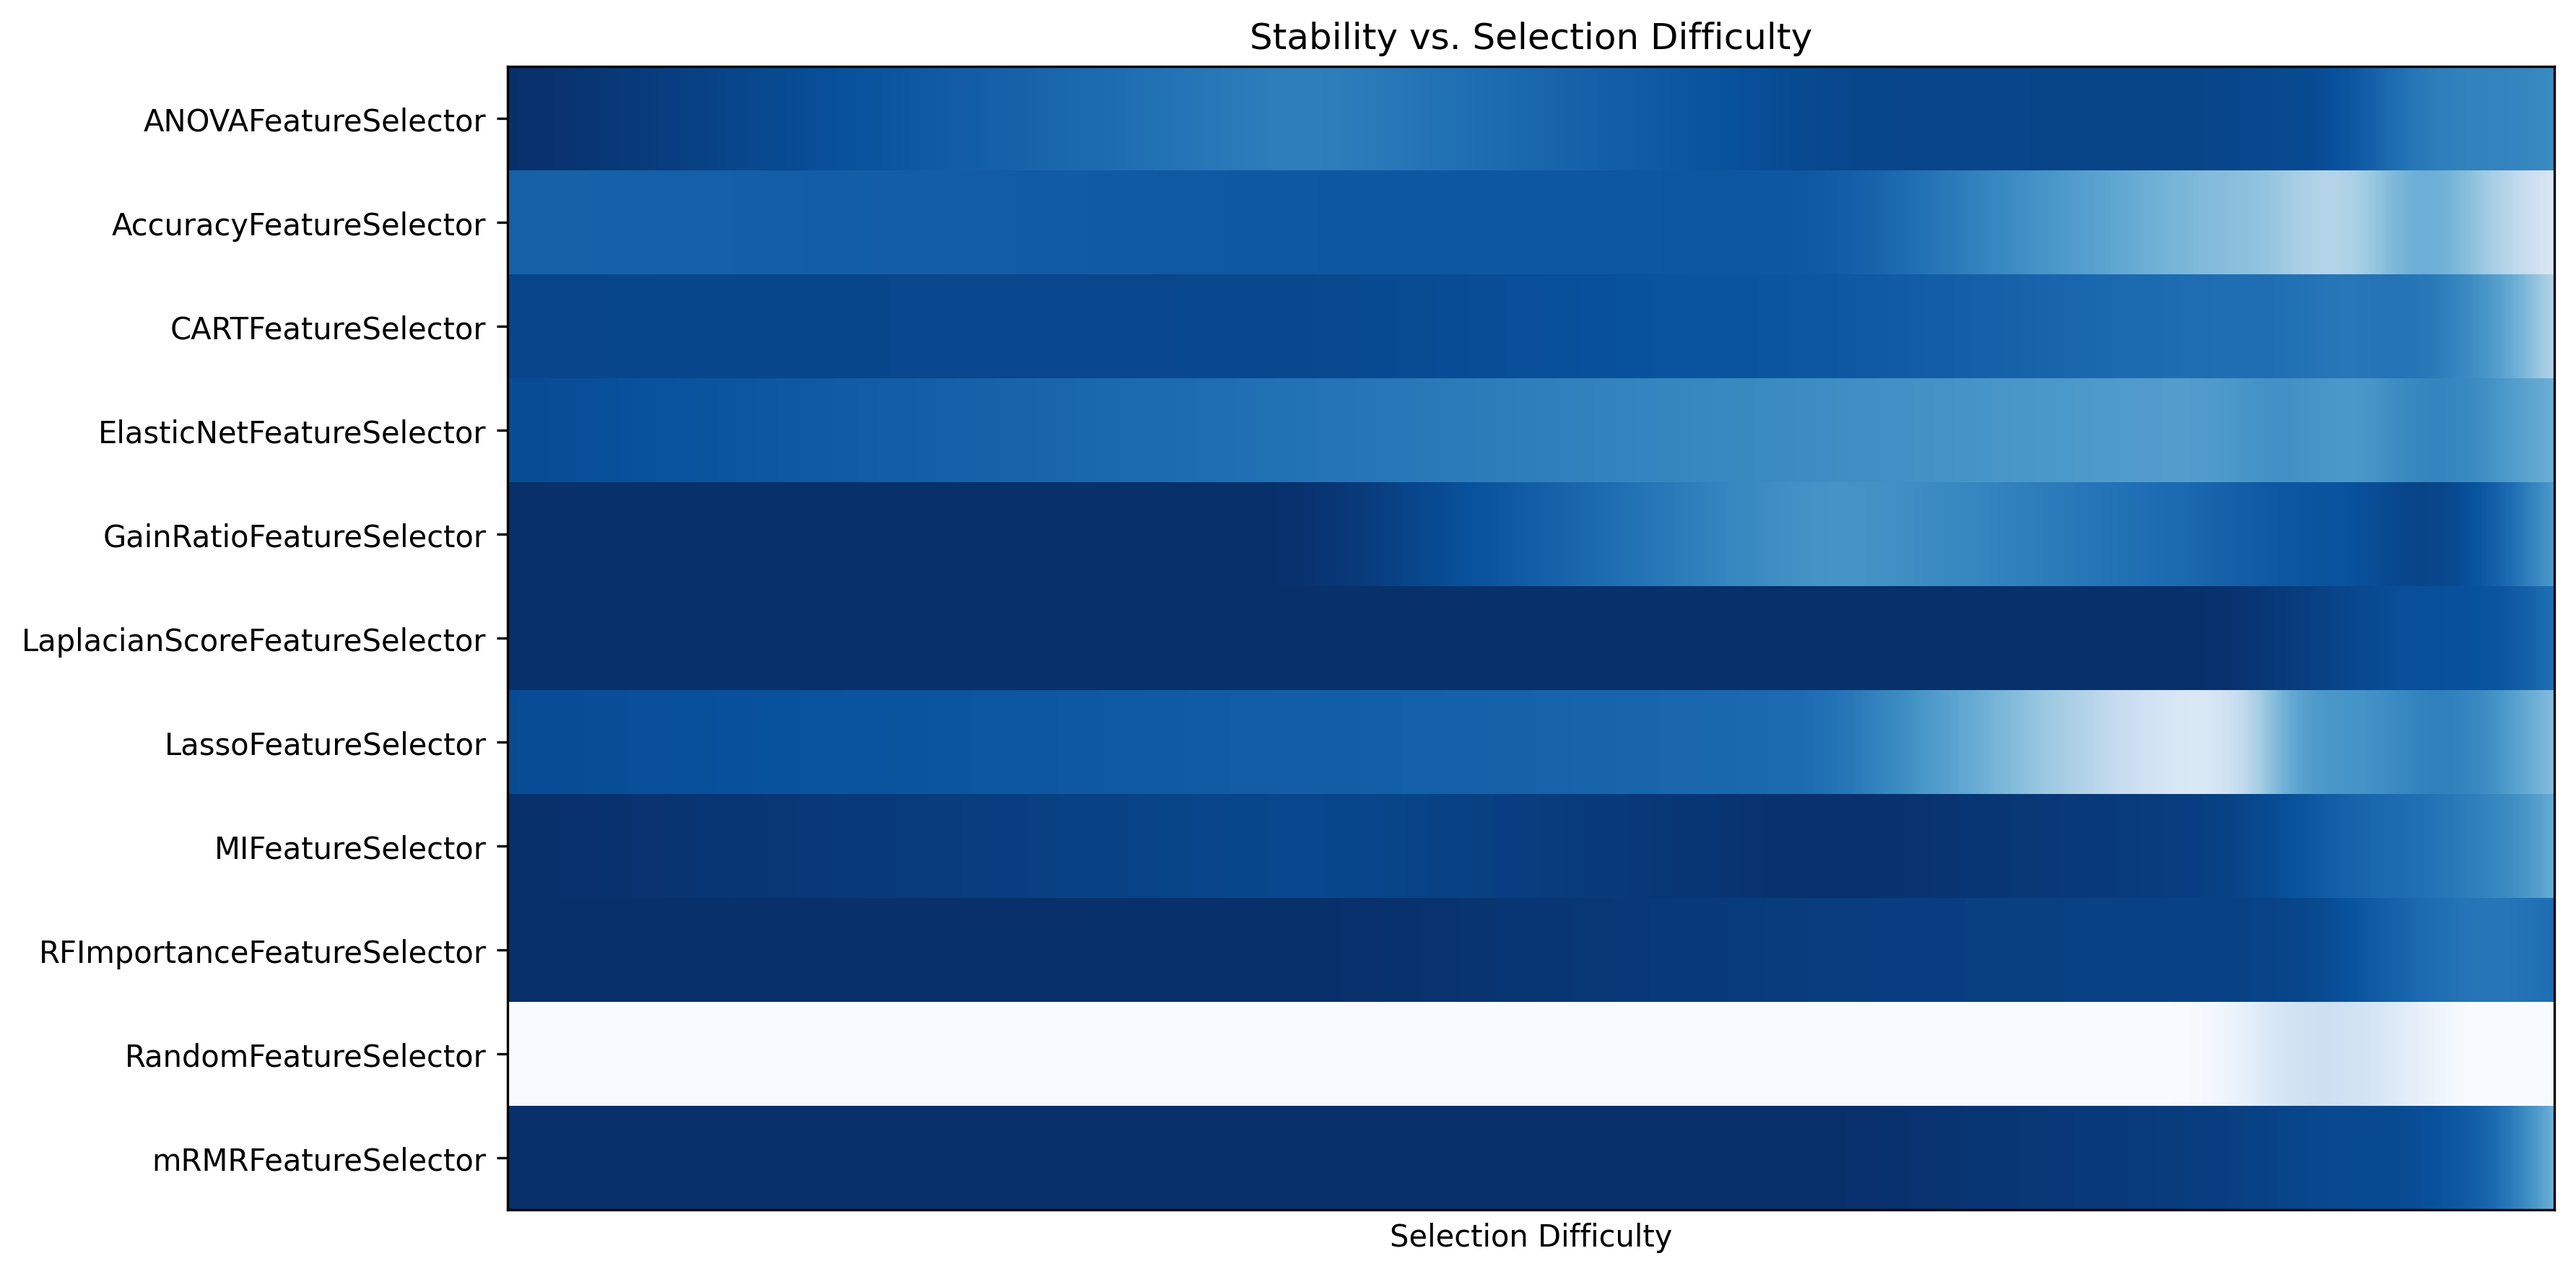
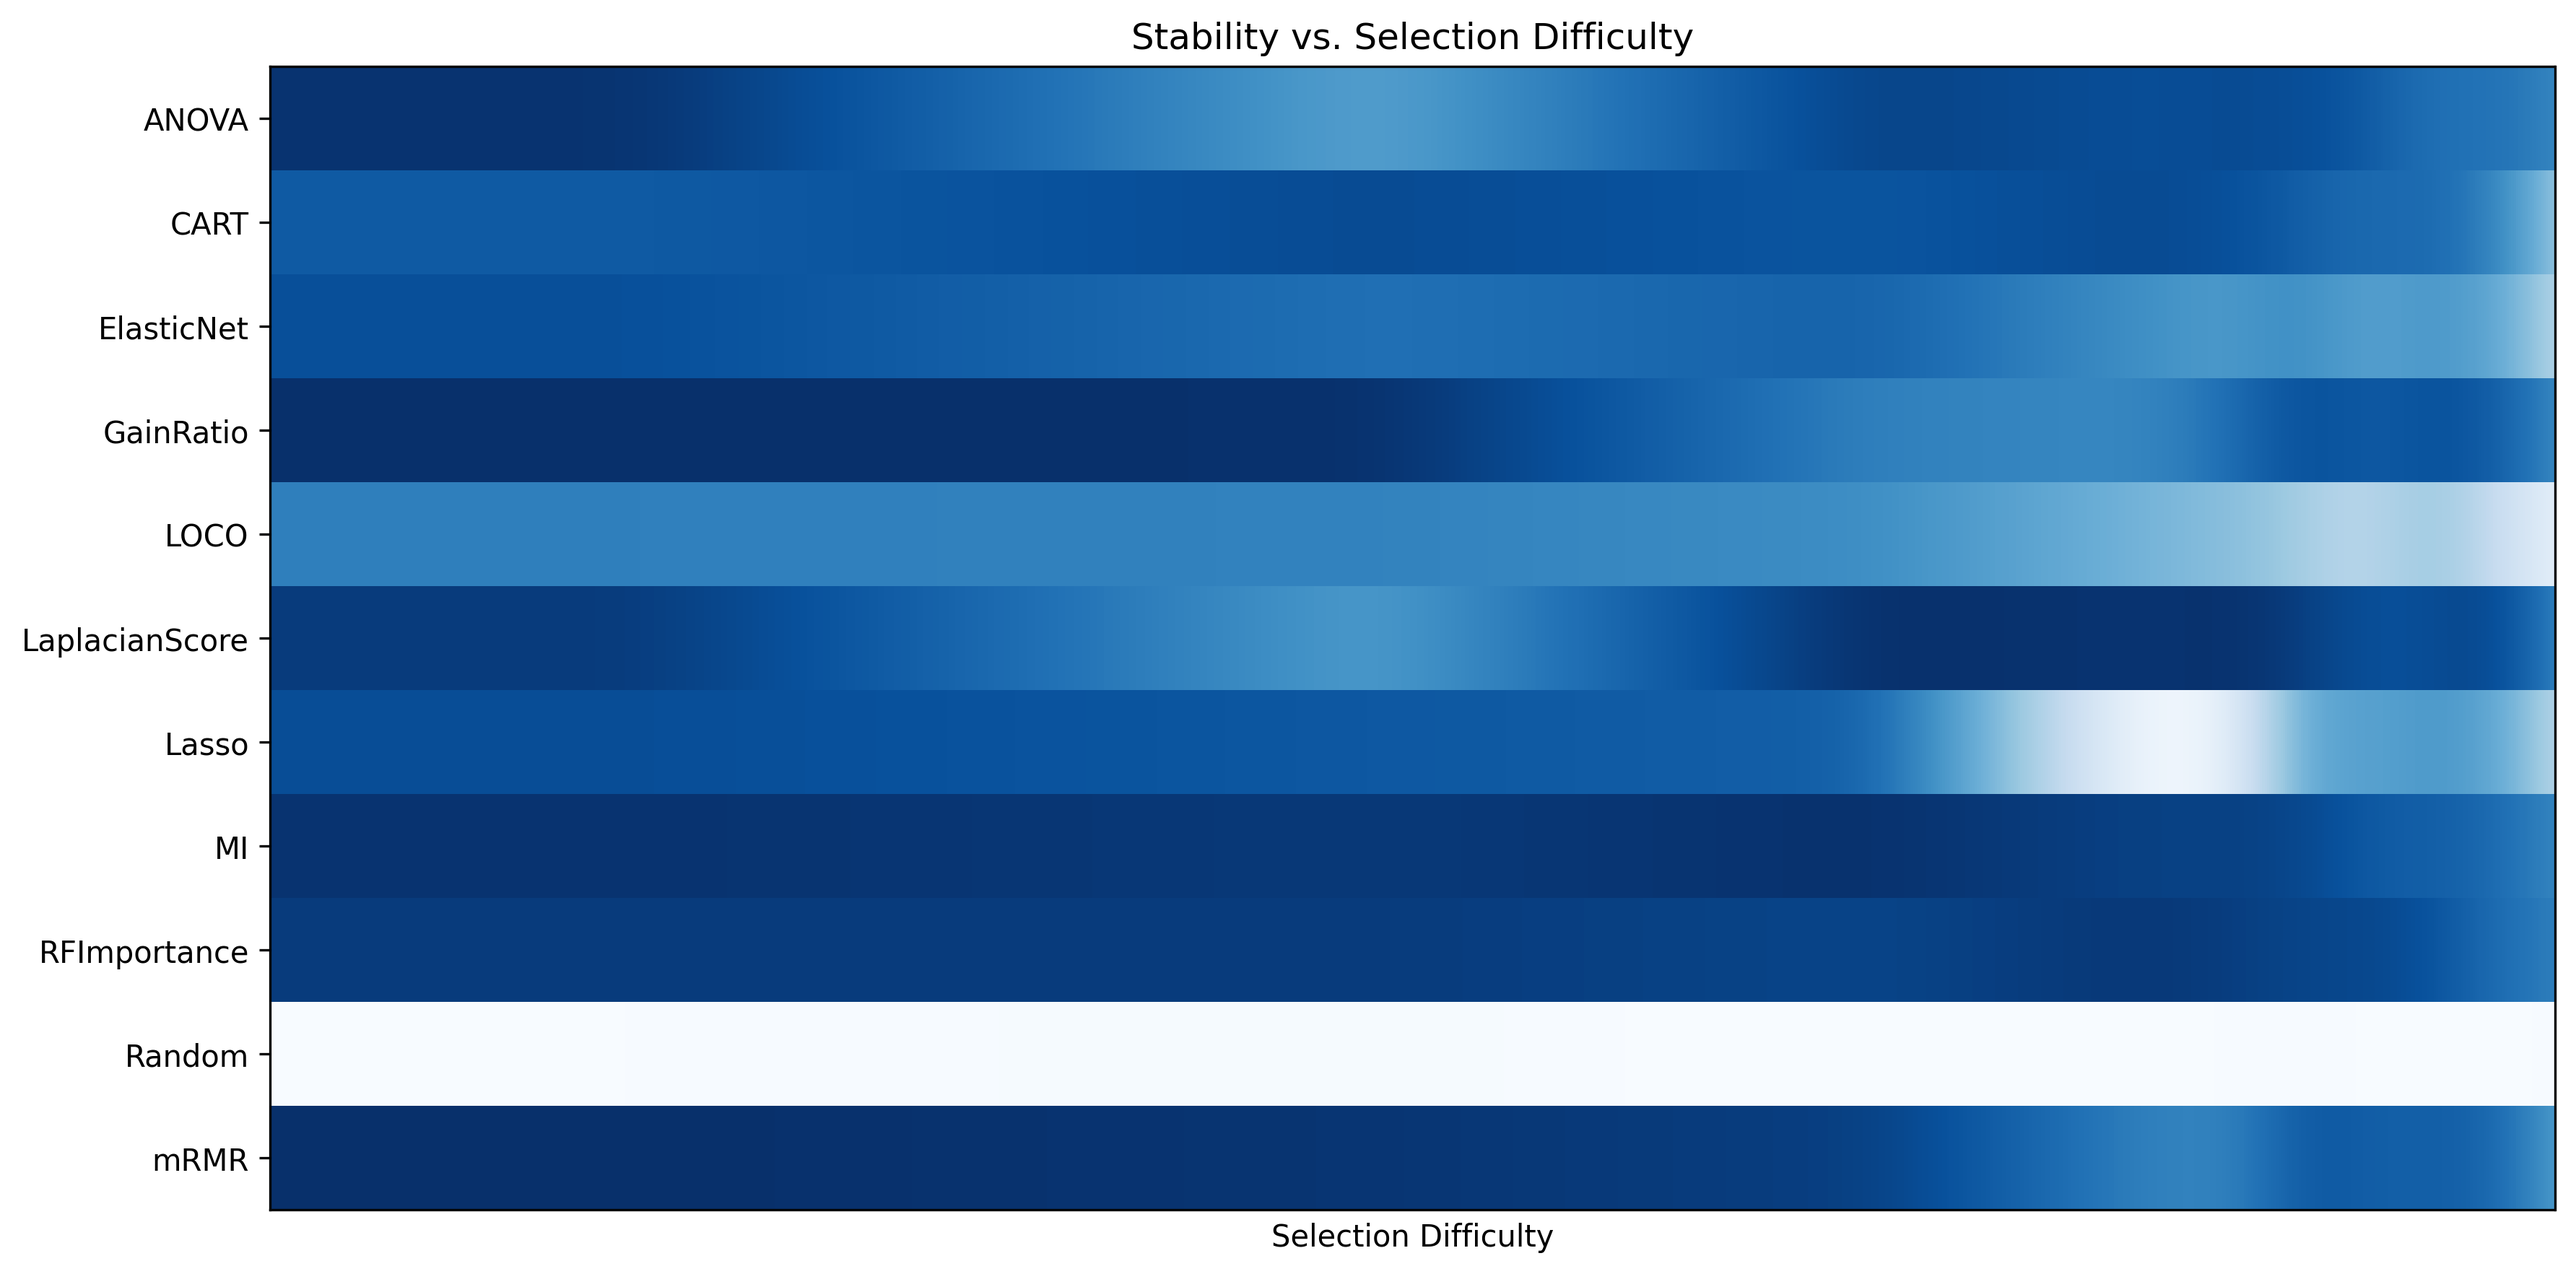
fix: stability (replace df_plot.groupby(["dataset", "selector", "epv"], as_index=False)["stability"].mean() (line 121) with df_plot.groupby(["selector", "epv"], as_index=False)["stability"].mean()

diff --git a/plotting_code/stability/stability_per_EPV_v1.py b/plotting_code/stability/stability_per_EPV_v1.py
@@ -25,14 +25,64 @@ OUTPUT_DIR = SCRIPT_DIR / "generated_plots/stability"
 OUTPUT_DIR.mkdir(parents=True, exist_ok=True)
 OUTPUT_PATH = OUTPUT_DIR / PLOT_NAME
 
+def overwrite_min_samples_from_validity(df_stability, df_validity):
+    """
+    Overwrites 'min_samples_per_class' in df_stability using the true values
+    from df_validity, matched solely on 'data_foundry_task_id'.
+    """
+    df_stab = df_stability.copy()
+    df_val = df_validity.copy()
+
+    # 1. Filter validity to keep only one row per data_foundry_task_id
+    val_dedup = df_val.drop_duplicates(subset=["data_foundry_task_id"], keep="first")
+
+    # 2. Create a simple dictionary mapping: {task_id: true_min_samples}
+    true_values_dict = val_dedup.set_index("data_foundry_task_id")["min_samples_per_class"].to_dict()
+
+    # 3. Map these true values directly onto the stability dataframe using the task_id column
+    new_min_samples = df_stab["data_foundry_task_id"].map(true_values_dict)
+
+    # 4. Overwrite the column.
+    # fillna ensures that if a task_id is somehow missing in validity,
+    # it safely falls back to whatever value it originally had in stability.
+    df_stab["min_samples_per_class"] = new_min_samples.fillna(df_stab["min_samples_per_class"])
+
+    return df_stab
+
 
 def main():
-    
     sys.path.append(str(SCRIPT_DIR.resolve()))
     from utils.metrics import compute_epv, compute_stability
     from utils.plots import lasagna_plot
 
-    df = pd.read_csv(RESULTS_FILE, low_memory=False)
+    df_validity = pd.read_csv(SCRIPT_DIR / "result_files/validity_results.csv", low_memory=False)
+    df_stability = pd.read_csv(RESULTS_FILE, low_memory=False)
+
+    stab_datasets = set(df_stability["data_foundry_task_id"].dropna().unique())
+    val_datasets = set(df_validity["data_foundry_task_id"].dropna().unique())
+
+    # Find the difference (in stability, but NOT in validity)
+    missing_in_validity = stab_datasets - val_datasets
+
+    print(f"Total datasets in stability: {len(stab_datasets)}")
+    print(f"Total datasets in validity: {len(val_datasets)}")
+    print(f"Datasets in stability but NOT in validity ({len(missing_in_validity)} total):")
+
+    df = overwrite_min_samples_from_validity(df_stability, df_validity)
+
+    unique_counts = df.groupby("data_foundry_task_id")["min_samples_per_class"].nunique(dropna=False)
+
+    # Filter for datasets that have more than 1 unique value
+    inconsistent_datasets = unique_counts[unique_counts > 1]
+
+    if inconsistent_datasets.empty:
+        print("✅ All datasets have exactly one consistent 'min_samples_per_class' value.")
+    else:
+        print(f"⚠ Found {len(inconsistent_datasets)} dataset(s) with varying 'min_samples_per_class' values:")
+        for ds_id in inconsistent_datasets.index:
+            # Extract the exact unique values for this specific dataset to see the conflict
+            conflicting_vals = df[df["data_foundry_task_id"] == ds_id]["min_samples_per_class"].unique()
+            print(f"  - Dataset {ds_id}: {conflicting_vals}")
 
     df["selected_features_parsed"] = df["selected_features"].apply(ast.literal_eval)
     df["original_features_parsed"] = df["original_features"].apply(ast.literal_eval)
@@ -43,6 +93,16 @@ def main():
 
     # TODO: check if min_samples_per_class is nan for regression and if num_samples is for the whole dataset or per split
     df["epv"] = compute_epv(df, df["original_features_parsed"])
+
+    unique_epv_counts = df.groupby("data_foundry_task_id")["epv"].nunique(dropna=False)
+    inconsistent_datasets = unique_epv_counts[unique_epv_counts > 1]
+
+    if not inconsistent_datasets.empty:
+        print(f"⚠ Found {len(inconsistent_datasets)} dataset(s) with fluctuating EPV values. Fixing them now...")
+    else:
+        print("✅ All datasets have consistent EPV values.")
+
+
 
     # TODO: adapt if stability estimation is not over all repeats
     df_plot = (
@@ -58,8 +118,12 @@ def main():
     )
 
     # mean stability over max_features (cardinality)
-    df_plot = (
+    """df_plot = (
         df_plot.groupby(["dataset", "selector", "epv"], as_index=False)["stability"]
+        .mean()
+    )"""
+    df_plot = (
+        df_plot.groupby(["selector", "epv"], as_index=False)["stability"]
         .mean()
     )
 
